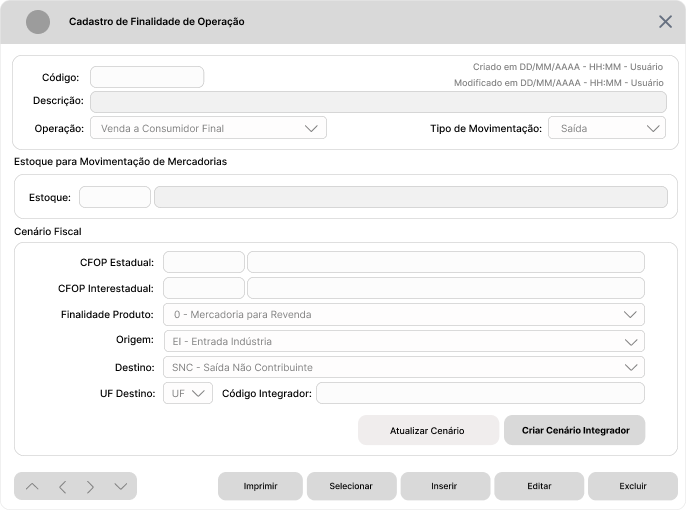
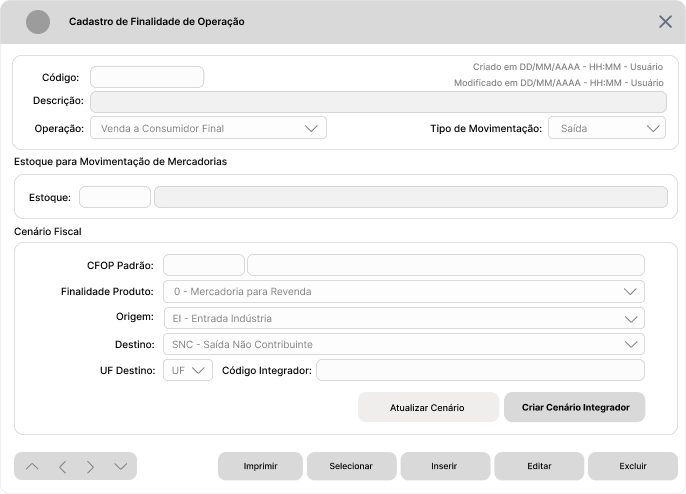
Update documentation

diff --git a/Documentação - Integrações.md b/Documentação - Integrações.md
@@ -102,8 +102,7 @@ Deste modo, os novos campos necessários neste Cadastro são:
 | **Botão de Seleção** | Grupo de Dados da Finalidade | Tipo de Movimentação | Seleção para indicar se a Finalidade de Operação cadastrada é uma Movimentação do Tipo **Entrada** ou **Saída**. Utilizado em conjunto com os demais campos para complementar dados da Requisição. Esta informação também será utilizada para composição de Regras Fiscais de Entrada ou Saída | Preenchimento Obrigatório. |
 | **Caixa de Combinação** | Grupo de Dados da Finalidade | Operação | Seleção para indicar a Espécie de Operação com base nas Movimentações existentes no Sistema, como por exemplo, as Movimentações existentes na Tela de Documentos Fiscais (Venda, Devolução de Venda, Devolução de Compra, Remessa de Entrega Futura, Saída para Consumo...) | Preenchimento Obrigatório. <br> Deve conter por padrão todas as "Operações" padronizadas possíveis que podem ser: <br><br> - Entrada de Mercadorias <br> - Venda a Consumidor Final <br> - Venda a Contribuinte <br> - Acompanhamento de Cupom Fiscal <br> - Devolução de Compra <br> - Devolução de Venda <br> - Transferência de Estoque <br> - Saída para Consumo <br> - Saída para Produção <br> - Saída por Perda <br> - Remessa de Entrega Futura <br> - Reclassificação de Mercadorias |
 | **Grupo de Dados** | Tela | Cenário Fiscal | Grupo para organizar dados específicos do Cenário Fiscal da Finalidade de Operação. | Preenchimento Obrigatório. |
-| **Campo** | Cenário Fiscal | CFOP Padrão Estadual | Campo para informar o Código do CFOP padrão para a Operação Estadual Cadastrada. Utilizado em conjunto com os demais campos para complementar dados da requisição a API do Integrador, e para complementar dados da Regra Fiscal. | Preenchimento Obrigatório. Validar se o CFOP existe na Tabela de CFOPs do Sistema Ganso conforme a definição do Tipo de Movimentação de **Entrada** ou **Saída**, e se o primeiro dígito é compatível com o Tipo de Movimentação: 1 para **Entrada** e 5 para **Saída**. |
-| **Campo** | Cenário Fiscal | CFOP Padrão Interestadual | Campo para informar o Código do CFOP padrão para a Operação Interestadual Cadastrada. Utilizado em conjunto com os demais campos para complementar dados da requisição à API do Integrador. | Preenchimento Obrigatório. Validar se o CFOP existe na Tabela de CFOPs do Sistema Ganso conforme a definição do Tipo de Movimentação de **Entrada** ou **Saída**, e se o primeiro dígito é compatível com o Tipo de Movimentação: 2 para **Entrada** e 6 para **Saída**. |
+| **Campo** | Cenário Fiscal | CFOP Padrão | Campo para informar o Código do CFOP padrão para a Operação Cadastrada. Utilizado em conjunto com os demais campos para complementar dados da requisição a API do Integrador, e para complementar dados da Regra Fiscal. | Preenchimento Obrigatório. Validar se o CFOP existe na Tabela de CFOPs do Sistema Ganso conforme a definição do Tipo de Movimentação de **Entrada** ou **Saída** |
 | **Caixa de Combinação** | Cenário Fiscal | Finalidade do Produto | Campo para definir a Finalidade do Produto. Alguns Integradores podem requerer este dado que se refere à finalidade do produto (destinação) para retornar a regra correta. Deve existir por padrão as seguintes opções:<br> 0 = Mercadoria para Revenda <br> 1 = Insumos de Produção <br> 2 = Materiais para Uso e Consumo ou Ativo Imobilizado | Preenchimento obrigatório. Deve retornar o Código relacionado à opção definida. |
 | **Caixa de Combinação** | Cenário Fiscal | Origem | Caixa de Combinação para definir a "Origem da Operação". Esta informação é exigida por alguns Integradores para criação de um _Cenário Fiscal_ na API. | Preenchimento Obrigatório quando o Integrador ativado é igual a **Mix Fiscal**. Deve existir por padrão as seguintes opções: <br> EI - Entrada Indústria <br> ED - Entrada Distribuidor <br> ES - Entrada Simples Nacional <br> BO - Bonificação <br> TR - Transferência. <br> A sigla referente à opção definida é utilizada na Criação de um Cenário Fiscal na API. |
 | **Caixa de Combinação** | Cenário Fiscal | Destino | Campo para definir o Parâmetro "Destino da Operação". Esta informação é exigida por alguns Integradores para criação de um _Cenário Fiscal_ na API. | Preenchimento Obrigatório quando o Integrador ativado é igual a **Mix Fiscal**. A sigla referente à opção definida é utilizada na Requisição à API. Deve existir por padrão as seguintes opções: <br> SAC - Saída Atacado Contribuinte <br> SAS - Saída Atacado Simples Nacional <br> SVC - Saída Varejo Contribuinte <br> SNC - Saída Não Contribuinte <br> IND - Industrialização <br> TRA - Transferência |
@@ -139,20 +138,21 @@ Para disponibilizar ao Usuário o Método de Consulta de Tributos através do Ca
 
 ### Funções
 
-| Nome                                          | Descritivo                                                                                                                                                                                     | Regras de Negócio                                                                            | Integrador |
-| :-------------------------------------------- | :--------------------------------------------------------------------------------------------------------------------------------------------------------------------------------------------- | :------------------------------------------------------------------------------------------- | :--------: |
-| Consultar Tributação                          | Aciona a Consulta Tributária conforme Integrador ativado                                                                                                                                       | Solicitar Acesso Restrito para a Operação [Ver Seção Acessos Restritos](#acessos-restritos)  | **Todos**  |
-| Consultar Histórico de Alterações Tributárias | Aciona a visualização do Histórico de Alterações do Produto                                                                                                                                    | Solicitar Acesso Restrito para a Operação [Ver Seção Acessos Restritos](#acessos-restritos)  | **Todos**  |
-| Desfazer Alterações Tributárias               | Aciona a Função contida no Histórico de Alterações para que o Usuário possa reverter dados Tributários atualizados pelo Integrador com possibilidade de escolha do ponto de reversão desejado. | Solicitar Acesso Restrito para a Operação. [Ver Seção Acessos Restritos](#acessos-restritos) | **Todos**  |
+| Nome                                          | Descritivo                                                                                                                                                                                     | Regras de Negócio                                                                            |
+| :-------------------------------------------- | :--------------------------------------------------------------------------------------------------------------------------------------------------------------------------------------------- | :------------------------------------------------------------------------------------------- |
+| Consultar Tributação                          | Aciona a Consulta Tributária conforme Integrador ativado                                                                                                                                       | Solicitar Acesso Restrito para a Operação [Ver Seção Acessos Restritos](#acessos-restritos)  |
+| Consultar Histórico de Alterações Tributárias | Aciona a visualização do Histórico de Alterações do Produto                                                                                                                                    | Solicitar Acesso Restrito para a Operação [Ver Seção Acessos Restritos](#acessos-restritos)  |
+| Desfazer Alterações Tributárias               | Aciona a Função contida no Histórico de Alterações para que o Usuário possa reverter dados Tributários atualizados pelo Integrador com possibilidade de escolha do ponto de reversão desejado. | Solicitar Acesso Restrito para a Operação. [Ver Seção Acessos Restritos](#acessos-restritos) |
 
 ### Novos Campos
 
-| Tipo                 | Posicionamento                | Nome/Texto                             | Descritivo                                                                                                                                                                                                                                                                                                                                                                   | Regras de Negócio                                                                                         | Integrador |
-| :------------------- | :---------------------------- | :------------------------------------- | :--------------------------------------------------------------------------------------------------------------------------------------------------------------------------------------------------------------------------------------------------------------------------------------------------------------------------------------------------------------------------- | :-------------------------------------------------------------------------------------------------------- | :--------: |
-| **Campo**            | **Grupo de Dados do Produto** | Código do Integrador                   | Campo para armazenar e exibir o Código do Produto da Base do Integrador, quando ocorrer o vínculo efetuado pelo Usuário durante a Consulta por Descrição, quando o Integrador possui tal recurso.                                                                                                                                                                            | Tipo Numérico Inteiro e Somente Leitura                                                                   | **Todos**  |
-| **Campo**            | A definir                     | Auditado por Integrador Fiscal         | Campo para armazenar e exibir a informação de que o Produto teve a tributação auditada/atualizada pelo Integrador Fiscal. Complementar esta informação com a Data/Hora da última atualização tributária.                                                                                                                                                                     | Somente leitura e visualmente destacado.                                                                  | **Todos**  |
-| **Campo**            | A definir                     | Enviado para Integrador Fiscal         | Campo para armazenar e exibir a informação de que o Produto foi enviado para Revisão Tributária para o Integrador Fiscal. Será utilizado para identificar quais Produtos estão pendentes de recepção da Tributação do Integrador, e como _flag_ para indicar que precisa receber atualização. Complementar esta informação com a Data/Hora do envio.                         | Criar Siglas específicas, que representem a real situação. Campo Somente leitura e visualmente destacado. | **Todos**  |
-| **Caixa de Seleção** | A definir                     | **Não Tributar por Integrador Fiscal** | Parâmetro para restringir a atualização de Tributos do Produto pelo Integrador Fiscal ativo, quando o Integrador permite tal recurso. Por decisão do Usuário, alguns produtos podem ser tributados seguindo a sua própria interpretação ou por orientação de sua contabilidade, e não deverão receber atualizações tributárias do Integrador ou serem enviados para revisão. | Solicitar Acesso Restrito. [Ver Seção Acessos Restritos](#acessos-restritos).                             |
+| Tipo                 | Posicionamento                | Nome/Texto                             | Descritivo                                                                                                                                                                                                                                                                                                                                                                                                                                                                  | Regras de Negócio                                                                                         |
+| :------------------- | :---------------------------- | :------------------------------------- | :-------------------------------------------------------------------------------------------------------------------------------------------------------------------------------------------------------------------------------------------------------------------------------------------------------------------------------------------------------------------------------------------------------------------------------------------------------------------------- | :-------------------------------------------------------------------------------------------------------- |
+| **Campo**            | **Grupo de Dados do Produto** | Código do Integrador                   | Campo para armazenar e exibir o Código do Produto da Base do Integrador, quando ocorrer o vínculo efetuado pelo Usuário durante a Consulta por Descrição, quando o Integrador possui tal recurso.                                                                                                                                                                                                                                                                           | Tipo Numérico Inteiro e Somente Leitura                                                                   |
+| **Campo**            | A definir                     | Auditado por Integrador Fiscal         | Campo para armazenar e exibir a informação de que o Produto teve a tributação auditada/atualizada pelo Integrador Fiscal. Complementar esta informação com a Data/Hora da última atualização tributária.                                                                                                                                                                                                                                                                    | Somente leitura e visualmente destacado.                                                                  |
+| **Campo**            | A definir                     | Enviado para Integrador Fiscal         | Campo para armazenar e exibir a informação de que o Produto foi enviado para Revisão Tributária para o Integrador Fiscal. Será utilizado para identificar quais Produtos estão pendentes de recepção da Tributação do Integrador, e como _flag_ para indicar que precisa receber atualização. Complementar esta informação com a Data/Hora do envio.                                                                                                                        | Criar Siglas específicas, que representem a real situação. Campo Somente leitura e visualmente destacado. |
+| **Campo**            | A definir                     | Código da Regra Fiscal Padrão          | Campo para armazenar e exibir o Código da Regra Fiscal Padrão do Produto. Os dados tributários de Saída de Venda a Consumidor Final serão migrados para a Regra Fiscal. Existindo esta definição, é possível desempate de informações quando ocorrer uma Consulta em Lotes ao Integrador. Quando ocorrer a Atualização dos Dados, a Regra Fiscal exata será atualizada com maior precisão, e durante a Venda NFC-e garante que o Produto possua todos os dados necessários. | Tipo Numérico editável                                                                                    |
+| **Caixa de Seleção** | A definir                     | **Não Tributar por Integrador Fiscal** | Parâmetro para restringir a atualização de Tributos do Produto pelo Integrador Fiscal ativo, quando o Integrador permite tal recurso. Por decisão do Usuário, alguns produtos podem ser tributados seguindo a sua própria interpretação ou por orientação de sua contabilidade, e não deverão receber atualizações tributárias do Integrador ou serem enviados para revisão.                                                                                                | Solicitar Acesso Restrito. [Ver Seção Acessos Restritos](#acessos-restritos).                             |
 
 ## Cadastro de Regra Fiscal
 
